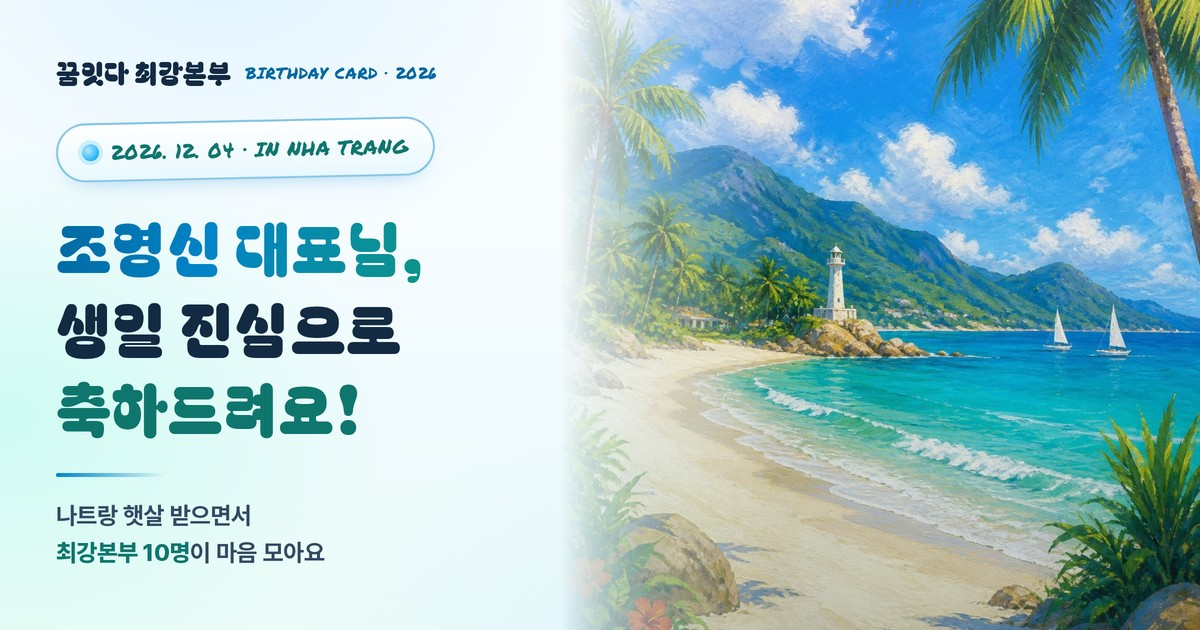
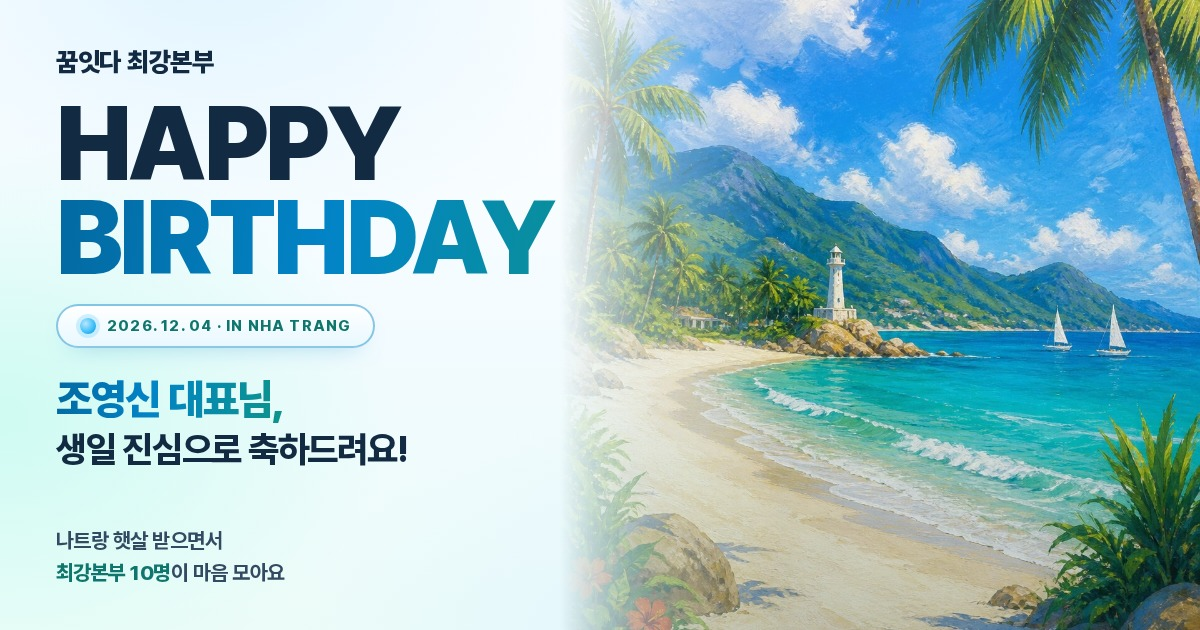
hbd-jo: Bagel Fat One·Permanent Marker 제거하고 Pretendard 900 고딕 단일 톤으로 통일, 'HAPPY BIRTHDAY' 대형 영문 타이틀 추가, 라벨 대문자 800 자간 .08em 정리, OG 썸네일 동기화

Changed region(s): [[0.0308, 0.0603, 0.4625, 0.4524], [0.0308, 0.6032, 0.3392, 0.9349], [0.0308, 0.4825, 0.3392, 0.573]]

diff --git a/hbd-jo/index.html b/hbd-jo/index.html
@@ -29,7 +29,7 @@
 <link rel="preconnect" href="https://fonts.gstatic.com" crossorigin>
 <link rel="preconnect" href="https://cdn.jsdelivr.net" crossorigin>
 <link rel="stylesheet" href="https://cdn.jsdelivr.net/gh/orioncactus/pretendard@v1.3.9/dist/web/variable/pretendardvariable-dynamic-subset.min.css">
-<link href="https://fonts.googleapis.com/css2?family=Bagel+Fat+One&family=Permanent+Marker&family=Noto+Sans+KR:wght@400;500;600;700;800;900&display=swap" rel="stylesheet">
+<link href="https://fonts.googleapis.com/css2?family=Noto+Sans+KR:wght@400;500;600;700;800;900&display=swap" rel="stylesheet">
 <style>
   :root{
     --cream:#FFFFFF;
@@ -51,10 +51,8 @@
     --ink:#132A43;
     --ink-2:#3F5A76;
     --ink-3:#57728C;
-    /* 서체 — 러쉬(LUSH) 포스터 감성: 굵은 디스플레이 + 손그림 마커 라벨 / 본문은 Pretendard */
+    /* 서체 — 전 채널 깔끔한 고딕(Pretendard) 단일 톤: 제목 900, 라벨 800 대문자 */
     --sans:"Pretendard Variable","Pretendard","Noto Sans KR","Apple SD Gothic Neo","Malgun Gothic",system-ui,-apple-system,sans-serif;
-    --display:"Bagel Fat One","Black Han Sans",var(--sans);
-    --marker:"Permanent Marker","Bagel Fat One",var(--sans);
   }
   *,*::before,*::after{box-sizing:border-box}
   html{-webkit-text-size-adjust:100%;scroll-behavior:smooth}
@@ -81,10 +79,10 @@
   .wrap{position:relative;z-index:2;max-width:680px;margin:0 auto;padding:0 20px calc(56px + env(safe-area-inset-bottom,0px))}
 
   /* ── typography helpers ── */
-  .display{font-family:var(--display);font-weight:400;letter-spacing:-.01em}
+  .display{font-family:var(--sans);font-weight:900;letter-spacing:-.03em}
   .eyebrow{
-    font-family:var(--marker);font-size:16px;line-height:1.3;letter-spacing:.06em;text-transform:uppercase;
-    color:var(--teal-deep);font-weight:400
+    font-family:var(--sans);font-size:14px;line-height:1.3;letter-spacing:.08em;text-transform:uppercase;
+    color:var(--teal-deep);font-weight:800
   }
   .ornament{display:flex;align-items:center;justify-content:center;gap:10px}
   .ornament::before,.ornament::after{content:"";height:2px;flex:1;max-width:78px;border-radius:2px;
@@ -96,34 +94,48 @@
   /* ── hero ── */
   header.hero{padding:40px 0 8px;text-align:center}
   .wordmark{display:flex;flex-direction:column;align-items:center;gap:6px}
-  .wordmark .brand{font-family:var(--display);font-weight:400;font-size:21px;letter-spacing:.02em;color:var(--ink)}
-  .wordmark .sub{font-family:var(--marker);font-size:14px;font-weight:400;letter-spacing:.1em;color:var(--ocean-deep)}
+  .wordmark .brand{
+    font-family:var(--sans);font-weight:900;font-size:16px;letter-spacing:-.01em;color:var(--ink);
+    text-transform:none
+  }
+
+  /* ── big english display ── */
+  .hbd{
+    margin:26px 0 0;font-family:var(--sans);font-weight:900;
+    font-size:clamp(50px,15vw,82px);line-height:.92;letter-spacing:-.035em;
+    text-transform:uppercase;color:var(--ink);
+  }
+  .hbd span{display:block}
+  .hbd .grad{
+    background:linear-gradient(100deg,#0369A1 0%,#0284C7 46%,#0D9488 100%);
+    -webkit-background-clip:text;background-clip:text;color:transparent;
+  }
 
   .badge{
     display:inline-flex;align-items:center;gap:10px;margin-top:24px;
-    padding:11px 22px;border:2px solid var(--line);border-radius:999px;
-    font-family:var(--marker);font-size:17px;line-height:1.3;letter-spacing:.02em;color:var(--teal-deep);
+    padding:10px 20px;border:2px solid var(--line);border-radius:999px;
+    font-family:var(--sans);font-size:13.5px;line-height:1.3;letter-spacing:.08em;font-weight:800;
+    text-transform:uppercase;color:var(--teal-deep);
     background:linear-gradient(180deg,#FFFFFF,#E8F8FF);white-space:nowrap;
     box-shadow:0 10px 22px -12px rgba(2,132,199,.42), inset 0 1px 0 #fff;
-    transform:rotate(-1.2deg);
   }
   .badge .sun{width:14px;height:14px;border-radius:50%;display:block;flex:none;
     background:radial-gradient(circle at 35% 35%,#BAE6FD,#38BDF8 60%,#0284C7);
     box-shadow:0 0 0 4px rgba(56,189,248,.22)}
 
   h1{
-    font-family:var(--display);font-weight:400;margin:22px 0 0;
-    font-size:clamp(34px,9.4vw,46px);line-height:1.3;letter-spacing:-.01em;color:var(--ink);
+    font-family:var(--sans);font-weight:900;margin:22px 0 0;
+    font-size:clamp(28px,7.6vw,38px);line-height:1.3;letter-spacing:-.03em;color:var(--ink);
   }
   h1 .name{
-    display:inline-block;font-weight:400;
+    display:inline-block;font-weight:900;
     background:linear-gradient(100deg,#0369A1 0%,#0284C7 42%,#0D9488 100%);
     -webkit-background-clip:text;background-clip:text;color:transparent;
   }
-  h1 .soft{display:block;font-size:.62em;color:var(--ink);margin-top:12px;font-weight:400;line-height:1.34}
+  h1 .soft{display:block;font-size:.7em;color:var(--ink);margin-top:10px;font-weight:800;letter-spacing:-.035em;line-height:1.38}
   .hero-note{
-    display:inline-block;margin:20px auto 0;font-size:18px;line-height:1.55;
-    font-weight:700;color:var(--ink-2);letter-spacing:-.02em;
+    display:inline-block;margin:20px auto 0;font-size:17px;line-height:1.58;
+    font-weight:700;color:var(--ink-2);letter-spacing:-.025em;
     background:rgba(224,242,254,.72);border-radius:16px;padding:10px 20px;
     transform:rotate(-.7deg);
   }
@@ -145,10 +157,10 @@
   .art-cap{
     position:absolute;left:0;right:0;bottom:0;padding:16px;z-index:1;
     display:flex;align-items:baseline;justify-content:space-between;gap:12px;
-    font-family:var(--marker);font-size:15px;font-weight:400;letter-spacing:.04em;
+    font-family:var(--sans);font-size:13px;font-weight:800;letter-spacing:.08em;text-transform:uppercase;
     color:rgba(255,255,255,.95);white-space:nowrap
   }
-  .art-cap b{font-family:var(--marker);font-weight:400;color:#A5F3FC}
+  .art-cap b{font-family:var(--sans);font-weight:800;color:#A5F3FC}
   .art-cap span{color:rgba(255,255,255,.9)}
 
   /* ── paper card ── */
@@ -171,12 +183,12 @@
   .paper .corner.bl{bottom:15px;left:15px;border-right:0;border-top:0;border-bottom-left-radius:4px}
   .paper .corner.br{bottom:15px;right:15px;border-left:0;border-top:0;border-bottom-right-radius:4px}
   .paper .kicker{
-    text-align:center;font-family:var(--marker);font-size:16px;line-height:1.3;letter-spacing:.06em;
-    color:var(--ocean-deep);text-transform:uppercase;font-weight:400
+    text-align:center;font-family:var(--sans);font-size:13.5px;line-height:1.3;letter-spacing:.08em;
+    color:var(--ocean-deep);text-transform:uppercase;font-weight:800
   }
   .quote-mark{
-    text-align:center;font-family:var(--display);font-size:44px;line-height:1;font-weight:400;
-    color:rgba(2,132,199,.38);margin:4px 0 2px
+    text-align:center;font-family:var(--sans);font-size:38px;line-height:1;font-weight:800;
+    color:rgba(2,132,199,.38);margin:6px 0 2px
   }
   .dedication{
     position:relative;margin:0 auto;max-width:26em;
@@ -196,22 +208,22 @@
     margin-top:26px;padding-top:20px;border-top:1px solid rgba(2,132,199,.22);
     text-align:center
   }
-  .sign .from{font-family:var(--marker);font-size:15px;font-weight:400;letter-spacing:.06em;color:var(--teal-deep)}
-  .sign .sign-who{font-family:var(--display);font-weight:400;font-size:21px;color:var(--ink);margin-top:9px;letter-spacing:0}
+  .sign .from{font-family:var(--sans);font-size:12.5px;font-weight:800;letter-spacing:.08em;text-transform:uppercase;color:var(--teal-deep)}
+  .sign .sign-who{font-family:var(--sans);font-weight:900;font-size:20px;color:var(--ink);margin-top:10px;letter-spacing:-.02em}
   .sign .seal{
     display:inline-flex;align-items:center;justify-content:center;
     width:40px;height:40px;margin-top:14px;border-radius:50%;
     border:2px solid rgba(13,148,136,.55);color:var(--teal-deep);
     background:radial-gradient(circle at 32% 28%,#F0FDFA,#CCFBF1);
-    font-family:var(--display);font-weight:400;font-size:16px;letter-spacing:0
+    font-family:var(--sans);font-weight:800;font-size:15px;letter-spacing:0
   }
 
   /* ── section heading ── */
   .sect{margin-top:54px}
   .sect-head{text-align:center}
   .sect-head h2{
-    display:inline-block;font-family:var(--display);font-weight:400;margin:14px 0 0;padding:2px 8px;
-    font-size:clamp(27px,7.2vw,33px);line-height:1.4;color:var(--ink);letter-spacing:0;
+    display:inline-block;font-family:var(--sans);font-weight:900;margin:14px 0 0;padding:2px 8px;
+    font-size:clamp(24px,6.5vw,30px);line-height:1.42;color:var(--ink);letter-spacing:-.03em;
     background:linear-gradient(180deg,rgba(56,189,248,0) 60%,rgba(56,189,248,.30) 60%,rgba(56,189,248,.30) 96%,rgba(56,189,248,0) 96%);
   }
   .sect-head p{margin:12px auto 0;max-width:24em;font-size:16.5px;font-weight:700;line-height:1.7;color:var(--ink-2);letter-spacing:-.02em}
@@ -271,10 +283,10 @@
     box-shadow:0 20px 44px -34px rgba(16,72,110,.22);
   }
   .compose h3{
-    margin:0;font-family:var(--display);font-weight:400;font-size:24px;color:var(--ink);letter-spacing:0;
-    display:flex;align-items:center;gap:9px;flex-wrap:wrap
+    margin:0;font-family:var(--sans);font-weight:900;font-size:22px;color:var(--ink);letter-spacing:-.03em;
+    display:flex;align-items:baseline;gap:9px;flex-wrap:wrap
   }
-  .compose h3 span{font-family:var(--marker);font-size:13px;letter-spacing:.06em;color:var(--teal-deep);font-weight:400}
+  .compose h3 span{font-family:var(--sans);font-size:11.5px;letter-spacing:.08em;text-transform:uppercase;color:var(--teal-deep);font-weight:800}
   .compose .lead{margin:10px 0 18px;font-size:16.5px;font-weight:600;line-height:1.68;color:var(--ink-2);letter-spacing:-.02em}
   .field{margin-top:14px}
   .field label{display:block;font-size:15px;letter-spacing:.01em;color:var(--teal-deep);margin-bottom:7px;font-weight:800}
@@ -296,7 +308,7 @@
     border:1px solid rgba(2,132,199,.26);
     box-shadow:inset 0 1px 0 #fff, 0 10px 22px -20px rgba(16,72,110,.24);
   }
-  .preview .pv-kicker{font-family:var(--marker);font-size:13.5px;font-weight:400;letter-spacing:.08em;color:var(--teal-deep);margin-bottom:8px}
+  .preview .pv-kicker{font-family:var(--sans);font-size:12px;font-weight:800;letter-spacing:.08em;text-transform:uppercase;color:var(--teal-deep);margin-bottom:8px}
   .preview .pv-text{font-family:var(--sans);font-weight:700;font-size:17px;line-height:1.75;color:#132A43;min-height:1.9em;letter-spacing:-.02em}
   .preview .pv-name{margin-top:10px;text-align:right;font-size:15px;font-weight:700;color:#6E88A3;letter-spacing:.01em}
   .btns{display:flex;gap:9px;margin-top:16px;flex-wrap:wrap}
@@ -327,8 +339,8 @@
 
   /* ── footer ── */
   footer{margin-top:50px;text-align:center}
-  footer .brandline{font-family:var(--display);font-weight:400;font-size:21px;letter-spacing:.02em;color:var(--ink)}
-  footer .date{margin-top:12px;font-family:var(--marker);font-size:15px;font-weight:400;letter-spacing:.06em;color:#5C7896}
+  footer .brandline{font-family:var(--sans);font-weight:900;font-size:19px;letter-spacing:-.02em;color:var(--ink)}
+  footer .date{margin-top:12px;font-family:var(--sans);font-size:12.5px;font-weight:800;letter-spacing:.08em;text-transform:uppercase;color:#5C7896}
   footer .copyline{margin-top:22px}
 
   /* ── reveal ── */
@@ -343,19 +355,21 @@
     .dedication{font-size:19px}
     .compose{padding:28px 26px 26px}
     ol.wall{grid-template-columns:1fr 1fr;gap:11px}
-    h1{font-size:46px}
+    h1{font-size:38px}
+    .hbd{font-size:70px}
   }
   @media (max-width:430px){
     .btns .btn{flex:1 1 100%}
   }
   @media (max-width:379px){
-    .badge{font-size:15px;padding:10px 14px;letter-spacing:0;gap:8px}
-    .art-cap{font-size:14px;padding:14px}
+    .badge{font-size:12px;padding:9px 13px;letter-spacing:.05em;gap:8px}
+    .art-cap{font-size:11.5px;padding:14px;letter-spacing:.05em}
   }
   @media (max-width:344px){
-    .badge{font-size:14px;padding:9px 11px}
-    h1{font-size:31px}
-    .hero-note{font-size:16.5px}
+    .badge{font-size:11px;padding:8px 11px;letter-spacing:.03em}
+    h1{font-size:26px}
+    .hbd{font-size:46px}
+    .hero-note{font-size:16px}
   }
   @media (prefers-reduced-motion:reduce){
     .reveal{opacity:1;transform:none;transition:none}
@@ -379,8 +393,9 @@
   <header class="hero">
     <div class="wordmark">
       <div class="brand">꿈잇다 최강본부</div>
-      <div class="sub">BIRTHDAY CARD · 2026</div>
     </div>
+
+    <p class="hbd"><span>HAPPY</span><span class="grad">BIRTHDAY</span></p>
 
     <div class="badge" aria-label="2026년 12월 4일, 나트랑">
       <span class="sun" aria-hidden="true"></span>2026. 12. 04 · IN NHA TRANG
